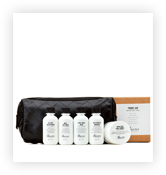
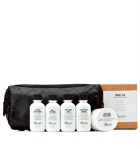
добавил стили к product card

Changed region(s): [[0.0, 0.5369, 1.0, 0.8859], [0.8286, 0.698, 0.8571, 0.7248]]

diff --git a/product card.html b/product card.html
@@ -39,51 +39,59 @@
             <li><a href="#">Средства для ухода</a></li>
             <li class="breabcrumbs-current"><span>Набор для путешествий «Baxter of California»</span></li>
         </ul>
-        <section class="product-photos">
-            <p class="main-photo"><img src="img/barbershop-item/main-foto.png" alt="Фото всего набора"></p>
-            <ul class="product-images">
-                <li><img src="img/barbershop-item/foto-1.png" alt="Фото в анфас"></li>
-                <li><img src="img/barbershop-item/foto-2.png" alt="Фото в профиль"></li>
-                <li><img src="img/barbershop-item/foto-3.png" alt="Фото отдельной части"></li>
-            </ul>
-        </section>
-        <section class="description">
-            <p class="product-availability">Есть в наличии</p>
-            <p class="product-article">Артикул: dexter-ae</p>
-            <p class="product-text">Travel Kit – необходимый аксессуар во время любого путешествия.
-                В аккуратной кожаной сумке находится все, что нужно для бритья и ухода за кожей во время рабочей
-                поездки или отдыха:
-                средство для умывания, увлажняющий крем, крем для бритья, крем после бритья, шампунь.
-                Набор также может стать отличным подарком.</p>
-            <p class="catalog-item-price">
-                <b>2 900 ₽</b>
-                <a href="#" class="button">Купить</a>
-            </p>
-            <h2>В набор входят:</h2>
-            <ul>
-                <li>Средство для умывания (50 мл)</li>
-                <li>Увлажняющий крем (50 мл)</li>
-                <li>Крем для бритья (50 мл)</li>
-                <li>Крем после бритья, шампунь (50 мл)</li>
-                <li>Удобная кожаная косметичка</li>
-            </ul>
-        </section>
+        <div class="product-wrap">
+            <section class="product-photos">
+                <p class="main-photo"><img src="img/barbershop-item/main-test.png" alt="Фото всего набора"></p>
+                <ul class="product-images">
+                    <li><img src="img/barbershop-item/foto-1.png" alt="Фото в анфас"></li>
+                    <li><img src="img/barbershop-item/foto-2.png" alt="Фото в профиль"></li>
+                    <li><img src="img/barbershop-item/foto-3.png" alt="Фото отдельной части"></li>
+                </ul>
+            </section>
+            <section class="description">
+                <div class="text-wrap">
+                    <p class="product-availability">Есть в наличии</p>
+                    <p class="product-article">Артикул: dexter-ae</p>
+                </div>
+                <p class="product-text">Travel Kit – необходимый аксессуар во время любого путешествия.
+                    В аккуратной кожаной сумке находится все, что нужно для бритья и ухода за кожей во время рабочей
+                    поездки или отдыха:
+                    средство для умывания, увлажняющий крем, крем для бритья, крем после бритья, шампунь.
+                    Набор также может стать отличным подарком.</p>
+                <p class="catalog-item-price">
+                    <b>2 900 ₽</b>
+                    <a href="#" class="button">Купить</a>
+                </p>
+                <h2>В набор входят:</h2>
+                <ul>
+                    <li>Средство для умывания (50 мл)</li>
+                    <li>Увлажняющий крем (50 мл)</li>
+                    <li>Крем для бритья (50 мл)</li>
+                    <li>Крем после бритья, шампунь (50 мл)</li>
+                    <li>Удобная кожаная косметичка</li>
+                </ul>
+            </section>
+        </div>
     </main>
     <footer class="main-footer">
-        <p>БАРБЕРШОП «БОРОДИНСКИЙ» <br>
-            АДРЕС: Г. САНКТ-ПЕТЕРБУРГ, УЛ. Б. КОНЮШЕННАЯ, Д. 19/8 <br>
-            КАК НАС НАЙТИ? <br>
-            ТЕЛЕФОН: +7 (495) 666-02-66</p>
-        <div class="footer-social">
-            <b>Давайте дружить!</b>
-            <a href="#" class="social-button">Вконтакте</a>
-            <a href="#" class="social-button">Фейсбук</a>
-            <a href="#" class="social-button">Инстаграм</a>
+        <div class="container">
+            <p class="footer-contacts">БАРБЕРШОП «БОРОДИНСКИЙ» <br>
+                АДРЕС: Г. САНКТ-ПЕТЕРБУРГ, УЛ. Б. КОНЮШЕННАЯ, Д. 19/8 <br>
+                <a href="#"> КАК НАС НАЙТИ?</a> <br>
+                ТЕЛЕФОН: +7 (495) 666-02-66</p>
+            <div class="footer-social">
+                <b>Давайте дружить!</b>
+                <ul class="social-link">
+                    <li><a href="#" class="social-button-vk"><span class="visually-hidden">Вконтакте</span></a></li>
+                    <li><a href="#" class="social-button-fb"><span class="visually-hidden">Фейсбук</span></a></li>
+                    <li><a href="#" class="social-button-inst"><span class="visually-hidden">Инстаграм</span></a></li>
+                </ul>
+            </div>
+            <p class="footer-copyright">
+                <b>Разработано:</b>
+                <a href="#" class="button">HTML ACADEMY</a>
+            </p>
         </div>
-        <p class="footer-copyright">
-            <b>Разработано:</b>
-            <a href="#" class="button">HTML ACADEMY</a>
-        </p>
     </footer>
     <section class="modal modal-login">
         <h2>Личный кабинет</h2>

diff --git a/css/style.css b/css/style.css
@@ -494,24 +494,41 @@ input[type="radio"].visually-hidden{
     font-size: 30px;
     line-height: 42px;
 
+    margin: 0;
     margin-bottom: 25px;
 }
 .breadcrumbs{
     list-style: none;
     line-height: 20px;
     
+    margin: 0;
     margin-bottom: 55px;
     padding: 0;
 
     display: flex;
+}
+.breadcrumbs li{
+    position: relative;
+    margin-right: 40px;
 }
 .breadcrumbs a:hover,
 .breadcrumbs a:focus{
     text-decoration: underline;
 }
 .breadcrumbs li::before{
-    content: "◆";
-    margin-right: 10px;
+    content: "";
+
+    width: 8px;
+    height: 8px;
+
+    background-color: #000000;
+
+    position: absolute;
+    left: -20px;
+    margin-left: -4px;
+    margin-top: 6px;
+
+    transform: rotate(45deg);
 }
 .breadcrumbs li:nth-child(1)::before{
     content: none;
@@ -566,6 +583,12 @@ fieldset{
     color: #000000;
 }
 .catalog-item-price b{
+    display: inline-block;
+    padding-top: 10px;
+    padding-right: 33px;
+    padding-bottom: 10px;
+    padding-left: 37px;
+    margin-right: -4px; 
     background-color: #e6e6e6;
 }
 .pagination-list{
@@ -613,4 +636,76 @@ fieldset{
     position: absolute;
     bottom: 0;
     left: 20px;
+}
+.product-photos{
+    width: 460px;
+}
+.product-photos img{
+    box-shadow: 0 0 15px 0 rgba(0, 1, 1, 0.2);
+}
+.description{
+    width: 390px;
+    padding: 0 10px;
+}
+.main-photo{
+    margin: 0;
+    margin-bottom: 20px;
+}
+.product-images{
+    list-style: none;
+    margin: 0;
+    padding: 0;
+}
+.product-wrap{
+    width: 940px;
+
+    display: flex;
+    justify-content: space-between;
+
+    margin-bottom: 50px;
+}
+.product-images{
+    display: flex;
+    flex-wrap: wrap;
+    justify-content: space-between;
+}
+.product-article{
+    color: #aeaeae;
+}
+.description p{
+    margin: 0;
+    margin-bottom: 30px;
+}
+.text-wrap{
+    display: flex;
+    justify-content: space-between;     
+}
+.description h2{
+    margin: 0;
+    margin-top: 60px;
+    margin-bottom: 30px;
+}
+.description ul{
+    margin: 0;
+    padding: 0;
+    padding-left: 20px;
+    list-style: none;
+
+    position: relative;
+}
+.description li{
+    margin-bottom: 8px;
+}
+.description li::before{
+    content: "";
+
+    width: 8px;
+    height: 8px;
+    background-color: #000000;
+
+    position: absolute;
+    left: 0;
+    margin-top: 4px;
+
+    transform: rotate(45deg);
 }
